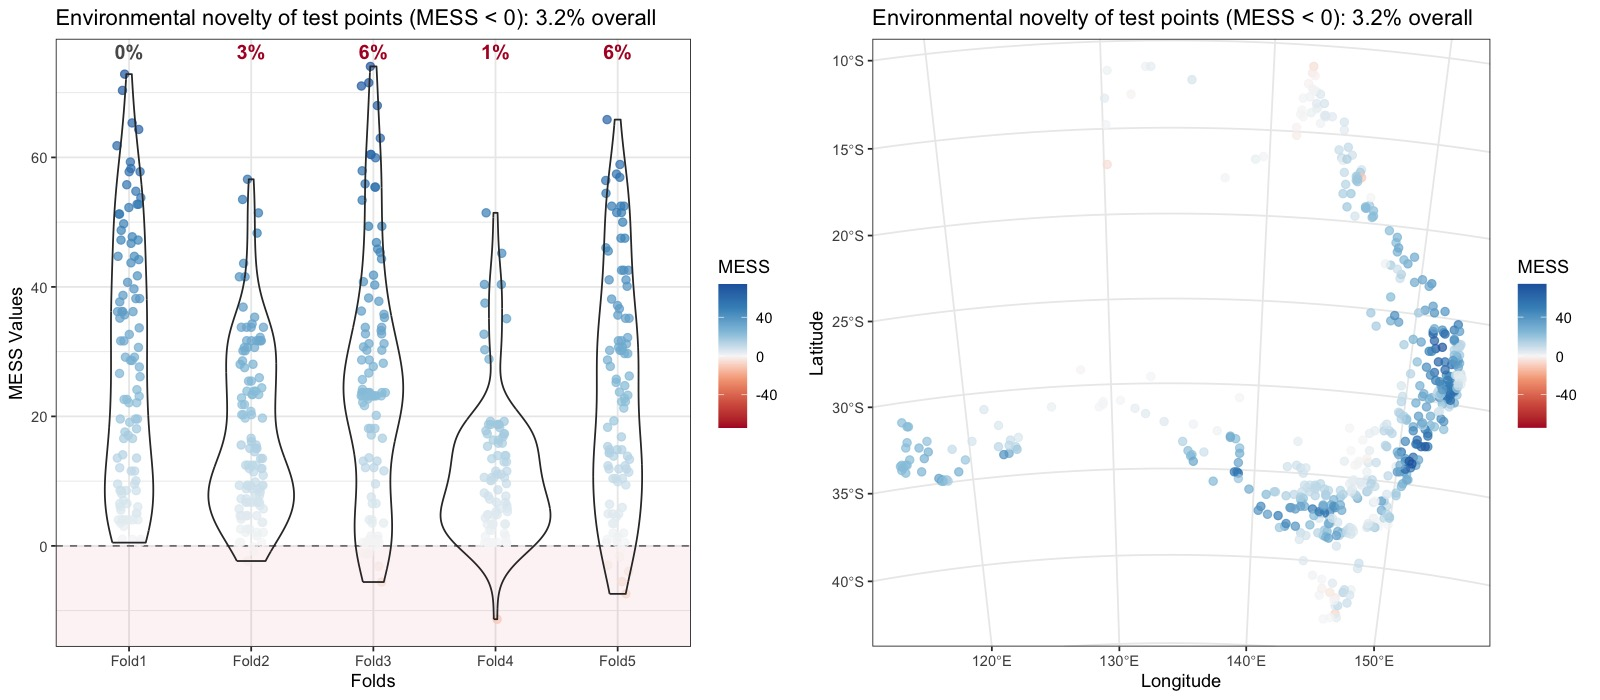
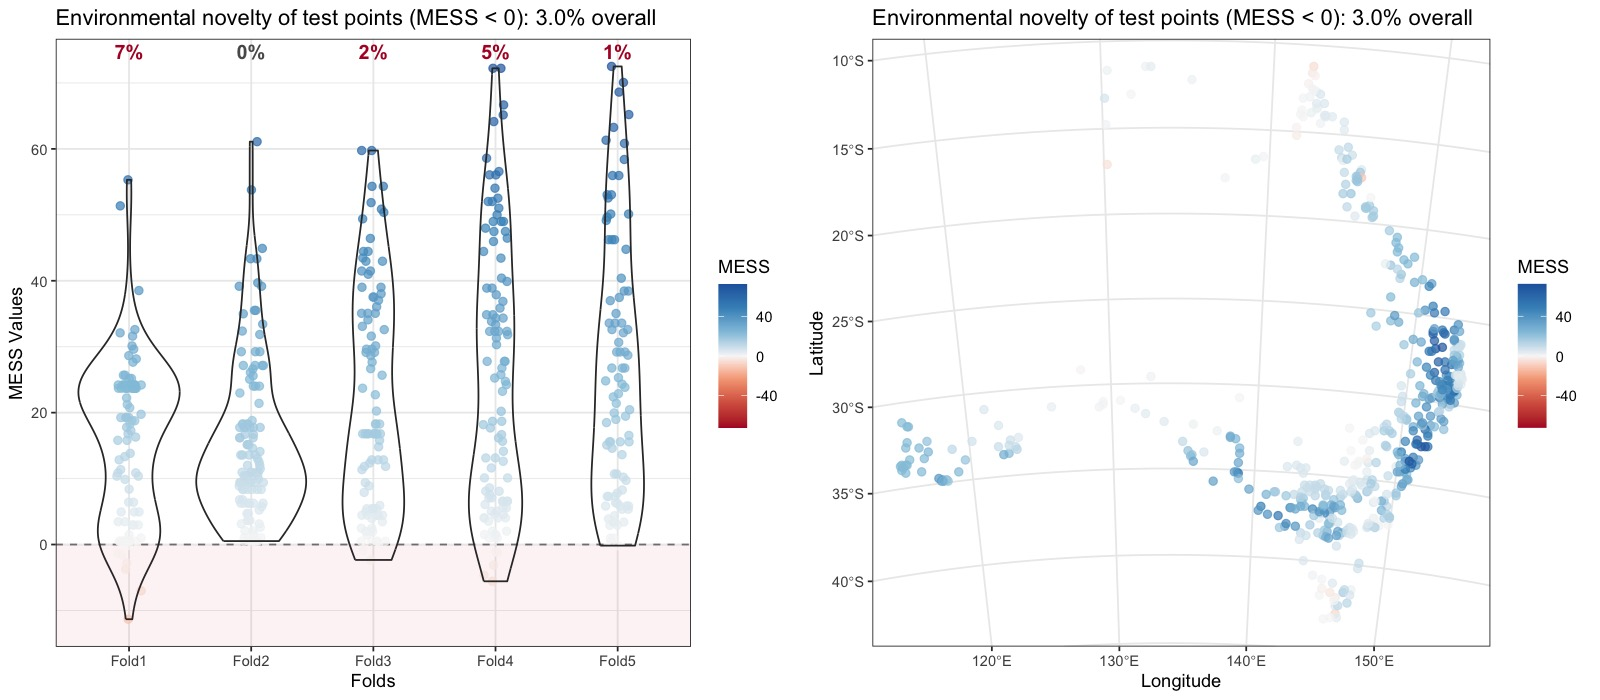
update readme

diff --git a/README.md b/README.md
@@ -119,9 +119,7 @@ vignette("tutorial_1", package = "blockCV")
 ## Basic usage
 
 The examples below highlight a few common workflows. See the
-[vignettes](#vignettes)—especially `tutorial_1` for fold construction and
-`tutorial_2` for diagnostics—for full demonstrations, interpretation, and
-guidance on choosing among methods.
+[vignettes](#vignettes) for more information and complete examples.
 
 ``` r
 # loading the package